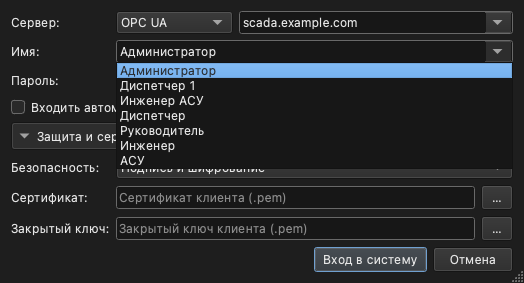
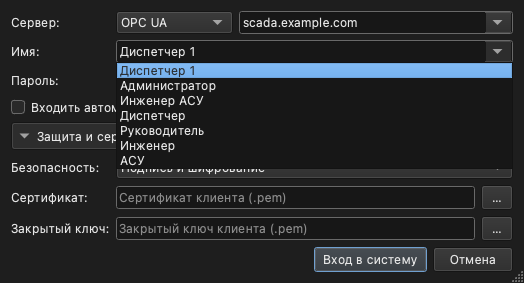
client: an import is applied with «Применить», and the login fixture is an operator's
Closes the last two dialog findings of the UX audit
(docs/client/ux/audit-2026-11-25.md, items 3.6 and 3.7). Both turned out
to be partly misread from the gallery, and the audit now says so.

3.7: the configuration import already showed the dry run's report and
defaulted to No; the gallery's message-box capture was a bare «Применить
изменения?» over Да/Нет with Да the default, which the product never
showed. The real remaining defect was the answer: «Да» made the operator
re-read the question. A new MessageBoxMode::QuestionApplyCancel offers
«Применить» / «Отмена», Cancel the default and Escape; the import uses
it, and the capture renders the real report and question.

3.6: the login dialog preselects the name last used on this workstation
and lists this workstation's typed names, never the Server's accounts.
The fixture led with «Администратор», so client-login.png and
workbench-login.png taught the opposite; it now leads with «Диспетчер 1».
The manual's sign-in section (RU and en/) now says where the name and
the list come from and that Delete removes a name.

Tests: ApplyCancelNamesTheActionAndDefaultsToCancel (aui 188/188); the
import tests answer Apply/Cancel (export_configuration 8/8).
Captures: client-login, workbench-login, message-box in both themes,
stamped; the three published ones refreshed in scada-docs/img.
dialogs.md §4 records the new mode.

Not done: hiding the automatic sign-in box on operator stations by
policy, which is a product decision.

Changed region(s): [[0.2137, 0.2261, 0.4275, 0.3392], [0.2137, 0.1696, 0.4275, 0.1979]]

diff --git a/client/workbench.md b/client/workbench.md
@@ -291,7 +291,11 @@ permalink: /client/workbench/
 ![]({{ '/img/workbench-login.png' | relative_url }})
 
 Окно входа содержит поле «Сервер:» (тип сервера и адрес), имя пользователя,
-пароль и флаг «Входить автоматически в следующий раз». Порядок входа описан на
+пароль и флаг «Входить автоматически в следующий раз». Имя пользователя
+предлагается то, под которым последний раз входили на этом компьютере, а
+раскрывающийся список содержит имена, которые здесь вводились (учётные записи
+Сервера он не перечисляет). Выделенное в списке имя удаляется клавишей
+*Delete*. Порядок входа описан на
 странице [Начало работы]({{ '/getting-started/' | relative_url }}#client-start).
 
 > **Внимание.** Если под этим именем уже открыт сеанс — например, предыдущий

diff --git a/en/client/workbench.md b/en/client/workbench.md
@@ -283,7 +283,10 @@ example) are not listed in the menu at all; for a selected object the
 ![]({{ '/img/workbench-login.png' | relative_url }})
 
 The sign-in window has a "Server:" row (the server type and the address), a
-user name, a password and a "Sign in automatically next time" box. Signing in
+user name, a password and a "Sign in automatically next time" box. The user
+name offered is the one last used to sign in on this computer, and the
+drop-down lists the names typed here (it does not list the Server's
+accounts). Press *Delete* on a highlighted name to remove it from the list. Signing in
 is described in [Getting started]({{ '/en/getting-started/' | relative_url }}#client-start).
 
 > **Caution.** When a session under this name is already open — the previous
